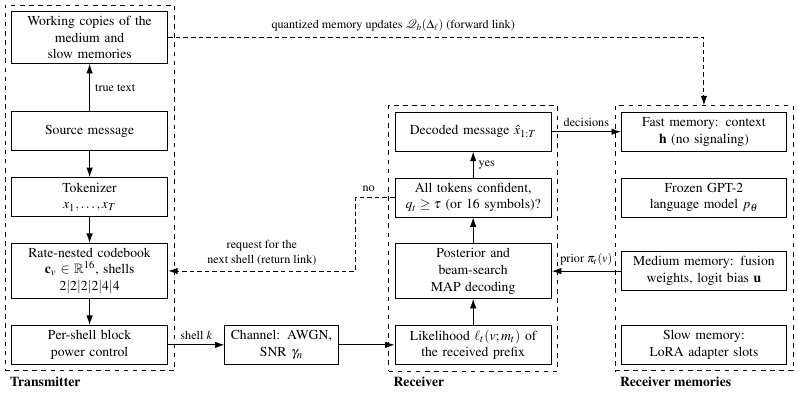
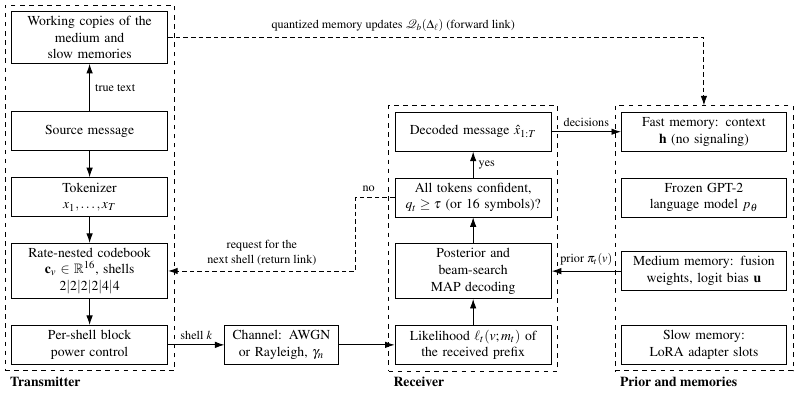
Paper: diagram refinements, build script for the submission package
Claude-Session: https://claude.ai/code/session_01DmwMwToWFSYPrn1yyQ5BQS

Changed region(s): [[0.2707, 0.8182, 0.4211, 0.9091], [0.782, 0.9394, 0.9323, 1.0]]

diff --git a/paper/diagrams/fig_architecture.tex b/paper/diagrams/fig_architecture.tex
@@ -21,7 +21,7 @@
 \draw[arr] (bias.west) -- node[lbl, above]{prior $\pi_t(v)$} (post.east);
 
 % ---------------- channel and transmitter
-\node[blk, text width=24mm, left=13mm of lik] (ch) {Channel: AWGN,\\ SNR $\gamma_n$};
+\node[blk, text width=24mm, left=13mm of lik] (ch) {Channel: AWGN\\ or Rayleigh, $\gamma_n$};
 \node[blk, text width=34mm, left=13mm of ch] (pc) {Per-shell block\\ power control};
 \node[blk, text width=34mm, above=of pc] (cb) {Rate-nested codebook\\ $\mathbf{c}_v\in\mathbb{R}^{16}$, shells $2|2|2|2|4|4$};
 \node[blk, text width=34mm, above=of cb] (tok) {Tokenizer\\ $x_1,\dots,x_T$};
@@ -48,6 +48,6 @@
 \node[grp, fit=(lik)(post)(conf)(out)] (rx) {};
 \node[ttl, anchor=north west] at (tx.south west) {Transmitter};
 \node[ttl, anchor=north west] at (rx.south west) {Receiver};
-\node[ttl, anchor=north west] at (memfit.south west) {Receiver memories};
+\node[ttl, anchor=north west] at (memfit.south west) {Prior and memories};
 \end{tikzpicture}
 \end{document}

diff --git a/paper/diagrams/fig_protocol.tex b/paper/diagrams/fig_protocol.tex
@@ -32,7 +32,7 @@
 \node[anchor=north] at ({50*\sx},{\rowD-10.5mm}) {Adaptation step $n$};
 \foreach \y in {\rowA,\rowB,\rowC,\rowD} { \draw[black!35, line width=0.3pt] (0,\y) -- ({100*\sx},\y); }
 \node[anchor=east, align=right] at (-1.5mm,\rowA) {Fast: context\\ (no signaling)};
-\node[anchor=east, align=right] at (-1.5mm,\rowB) {Medium: $w_\mathrm{p},w_\mathrm{l},\mathbf{u}$\\ (6,257 bits)};
+\node[anchor=east, align=right] at (-1.5mm,\rowB) {Medium: $w_\mathrm{p},w_\mathrm{l},\mathbf{u}$\\ (6257 bits)};
 \node[anchor=east, align=right] at (-1.5mm,\rowC) {Slot choice\\ (2 bits)};
 \node[anchor=east, align=right] at (-1.5mm,\rowD) {Slow: LoRA slot\\ (1,180,032 bits)};
 \foreach \x in {1,...,100} { \draw[line width=0.3pt] ({\x*\sx},{\rowA-1mm}) -- ++(0,2mm); }
